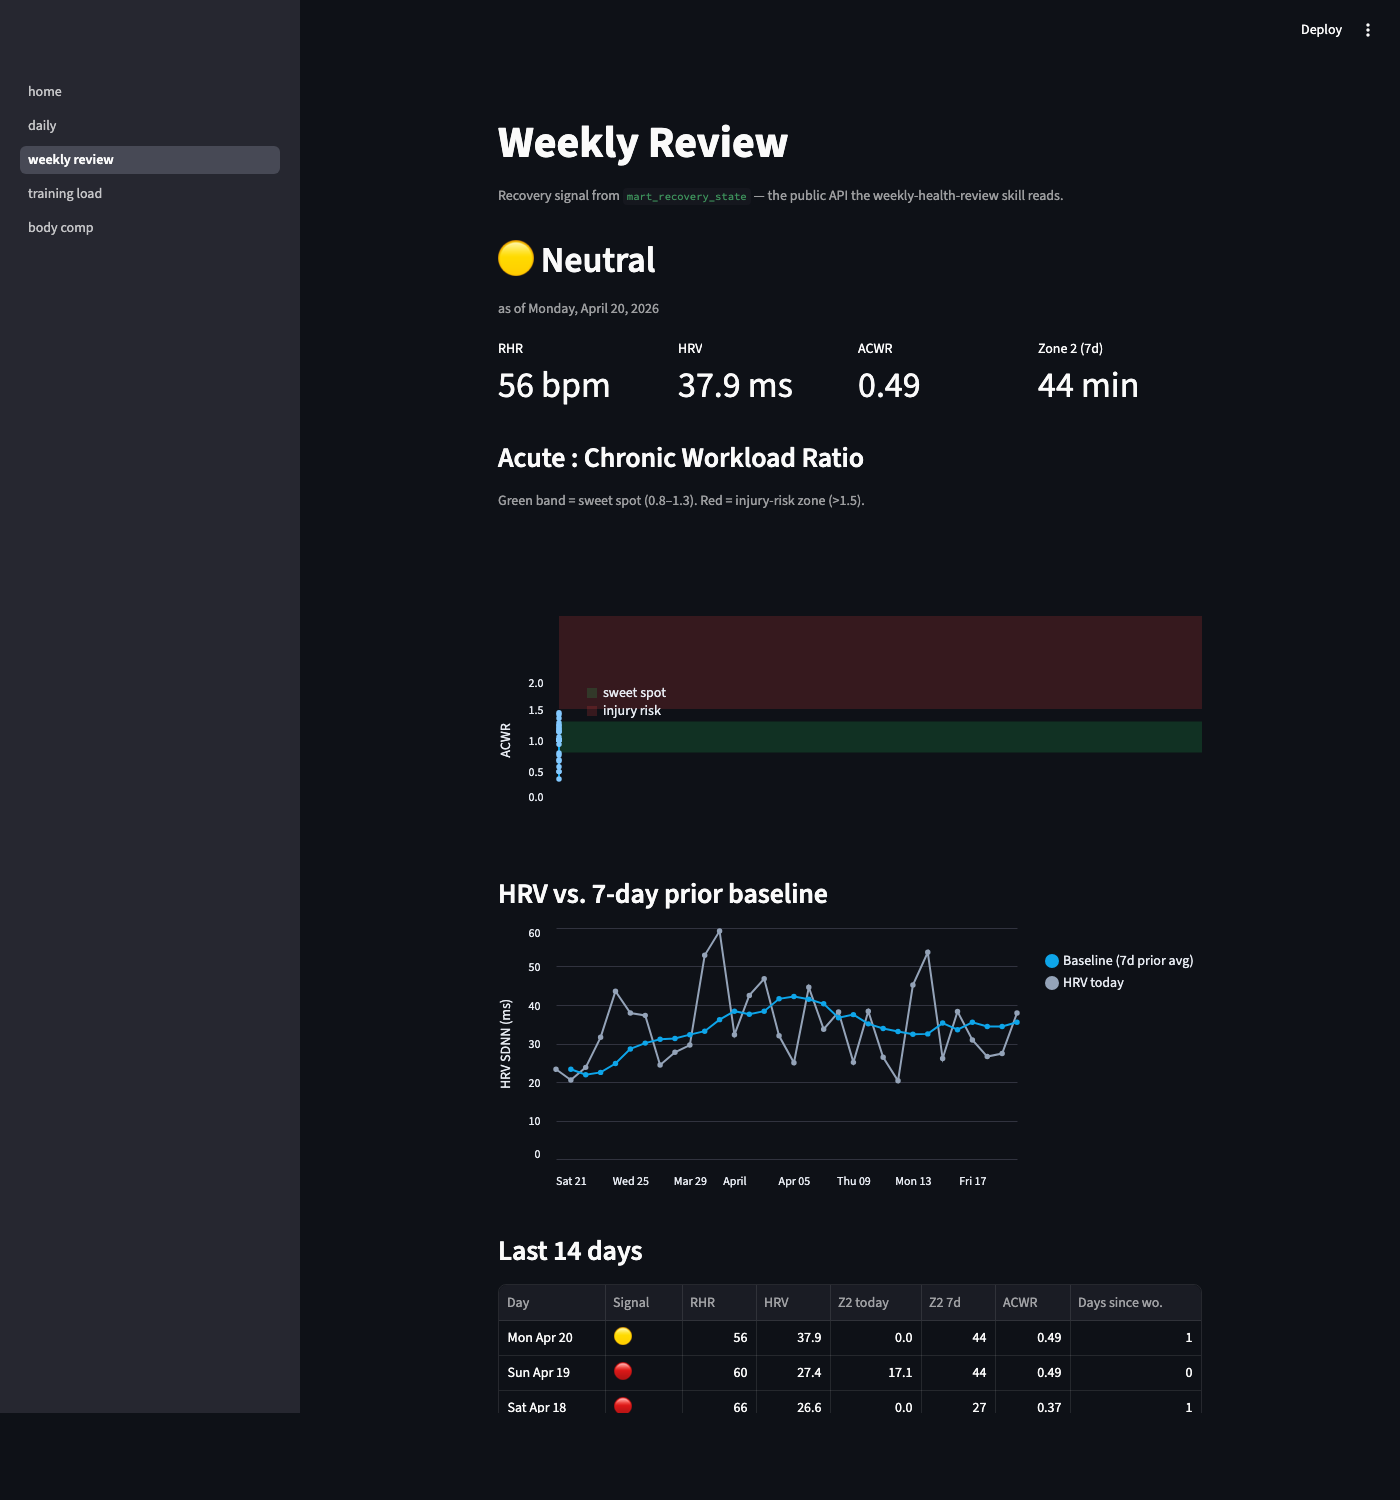
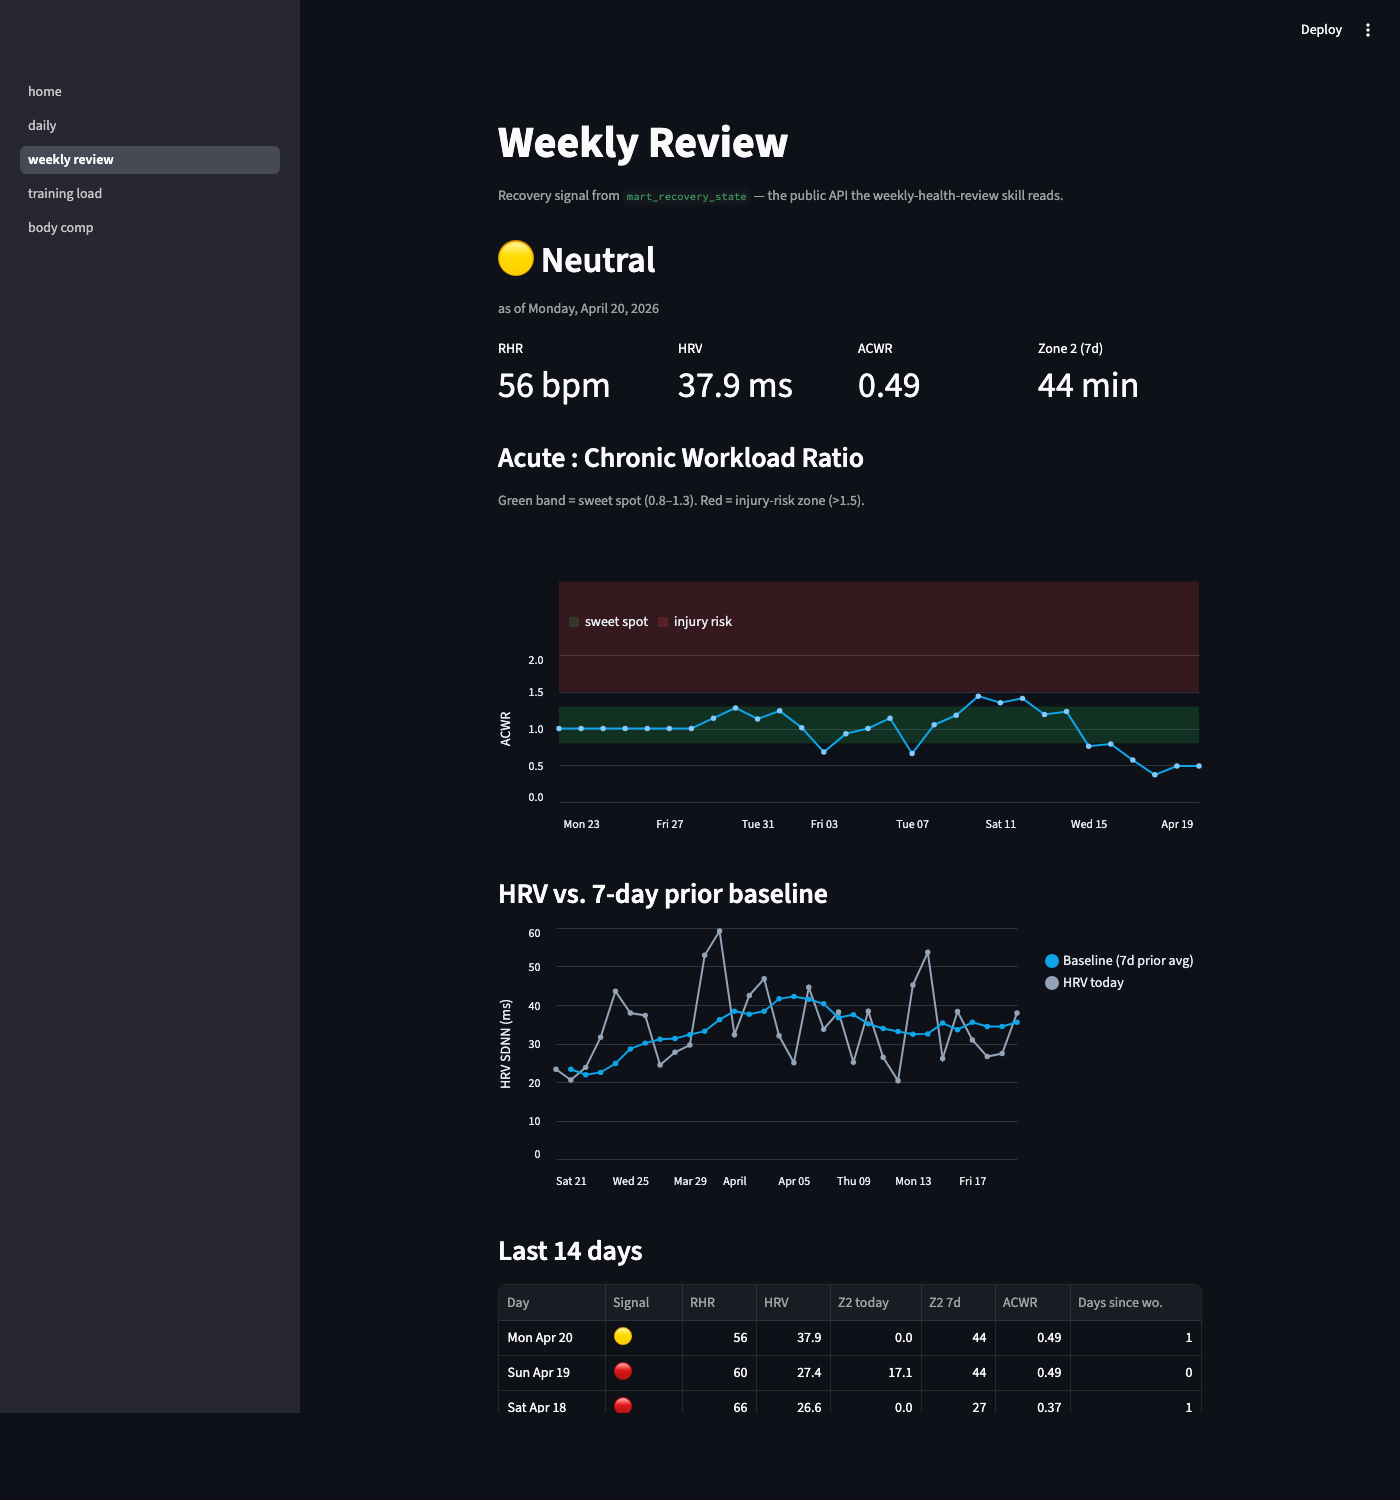
fix: ACWR chart bands now share x-scale with the line
The Weekly Review page's ACWR chart looked broken: bands rendered
across the full canvas width, but the data points were squished to
the left edge.

Root cause: the band layer encoded x with pixel-space sentinels —
alt.value(0) and alt.value(10_000). When layered with the line
(x="day:T"), Altair's shared x-scale resolution picked up those
pixel values as data, blowing the domain out to 10000 and collapsing
the line's actual time range to a sliver on the left.

Fix: anchor the band rectangles to the data's date range. Add
day_start / day_end columns to the bands DataFrame (both = the
ACWR data's min/max day), encode x="day_start:T" and x2="day_end:T".
Now both layers use day:T as x and the shared scale renders correctly.

While there: hoist y_max once and reuse across both layers, move the
band legend to the top to free up plot space, and add the y-axis title
to the band layer (it was previously implicit on the line layer only).

Verified by re-screenshotting at docs/screenshots/weekly_review.png —
line now traces cleanly across Mar 23 → Apr 19 with bands properly
behind it. All 37 unit tests still green.

Changed region(s): [[0.3686, 0.46, 0.86, 0.552], [0.3993, 0.368, 0.86, 0.4293]]

diff --git a/app/pages/02_weekly_review.py b/app/pages/02_weekly_review.py
@@ -53,27 +53,36 @@ st.caption("Green band = sweet spot (0.8–1.3). Red = injury-risk zone (>1.5)."
 acwr_df = df[["day", "acwr"]].dropna()
 
 if len(acwr_df) >= 2:
+    # Anchor bands to the data's actual date range so the band layer and the
+    # line layer share an x-scale (day:T). Earlier version used pixel-space
+    # alt.value(0..10_000) which hijacked the shared x-scale and squished
+    # the line to the left edge.
+    day_min = acwr_df["day"].min()
+    day_max = acwr_df["day"].max()
     bands = pd.DataFrame(
         [
-            {"start": 0.8, "end": 1.3, "tier": "sweet spot"},
-            {"start": 1.5, "end": 3.0, "tier": "injury risk"},
+            {"day_start": day_min, "day_end": day_max,
+             "y_low": 0.8, "y_high": 1.3, "tier": "sweet spot"},
+            {"day_start": day_min, "day_end": day_max,
+             "y_low": 1.5, "y_high": 3.0, "tier": "injury risk"},
         ]
     )
+    y_max = max(2.0, acwr_df["acwr"].max() * 1.1)
     band_layer = (
         alt.Chart(bands)
         .mark_rect(opacity=0.18)
         .encode(
-            x=alt.value(0),
-            x2=alt.value(10_000),
-            y=alt.Y("start:Q"),
-            y2=alt.Y2("end:Q"),
+            x=alt.X("day_start:T", title=None),
+            x2="day_end:T",
+            y=alt.Y("y_low:Q", scale=alt.Scale(domain=[0, y_max]), title="ACWR"),
+            y2="y_high:Q",
             color=alt.Color(
                 "tier:N",
                 scale=alt.Scale(
                     domain=["sweet spot", "injury risk"],
                     range=["#22c55e", "#ef4444"],
                 ),
-                legend=alt.Legend(title=None),
+                legend=alt.Legend(title=None, orient="top"),
             ),
         )
     )
@@ -82,11 +91,7 @@ if len(acwr_df) >= 2:
         .mark_line(point=True, strokeWidth=2, color="#0ea5e9")
         .encode(
             x=alt.X("day:T", title=None),
-            y=alt.Y(
-                "acwr:Q",
-                scale=alt.Scale(domain=[0, max(2.0, acwr_df["acwr"].max() * 1.1)]),
-                title="ACWR",
-            ),
+            y=alt.Y("acwr:Q", scale=alt.Scale(domain=[0, y_max])),
             tooltip=[
                 alt.Tooltip("day:T"),
                 alt.Tooltip("acwr:Q", format=".2f"),